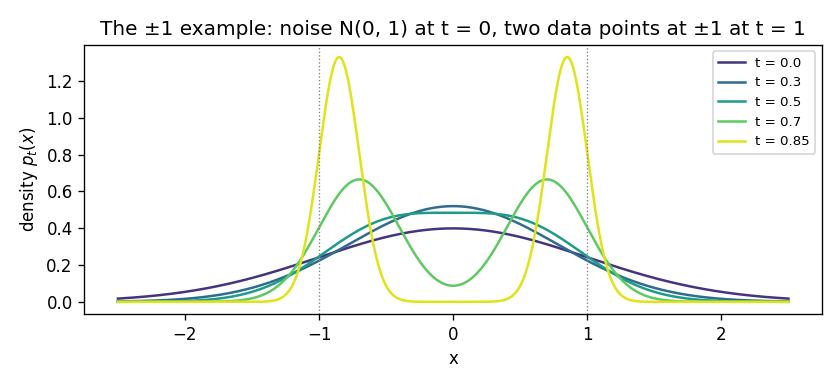
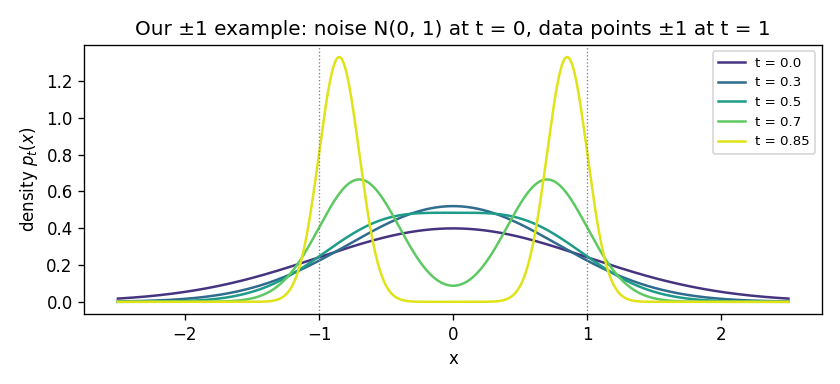
Flow matching pilot: fixes from the second independent review
Keep 'conditional path' (the line) apart from 'conditional probability
path' (the distribution), define the symbol in Exercise 1, stop
overloading sigma, state the reflow result Liu et al. prove, make the
1D OT split exact, use one figure for diffusion step counts, cite
Immiscible Diffusion for OT coupling in diffusion, clarify the
signal-to-noise matching, and move the naming note on 'optimal
transport' into its own section.

Changed region(s): [[0.1238, 0.0312, 0.9595, 0.0938]]

diff --git a/assignments/a06_0_flow_matching/assets/make_pm1_figures.py b/assignments/a06_0_flow_matching/assets/make_pm1_figures.py
@@ -50,7 +50,7 @@ for k in range(steps):
 ts = np.linspace(0.0, t_end, steps + 1)
 for i in range(n):
     ax_m.plot(ts, traj[:, i], color="tab:blue" if traj[-1, i] > 0 else "tab:orange", lw=1)
-ax_m.set_title("Marginal-field trajectories: curved, no crossings")
+ax_m.set_title("Marginal-velocity trajectories: curved, no crossings")
 ax_m.set_xlabel("t")
 
 for ax in (ax_c, ax_m):
@@ -73,7 +73,7 @@ for x1 in (-1, 1):
     ax.axvline(x1, color="gray", lw=0.8, ls=":")
 ax.set_xlabel("x")
 ax.set_ylabel("density $p_t(x)$")
-ax.set_title("The ±1 example: noise N(0, 1) at t = 0, two data points at ±1 at t = 1")
+ax.set_title("Our ±1 example: noise N(0, 1) at t = 0, data points ±1 at t = 1")
 ax.legend(fontsize=8)
 fig2.tight_layout()
 fig2.savefig("pm1_path.png", dpi=120)

diff --git a/assignments/a06_0_flow_matching/README.md b/assignments/a06_0_flow_matching/README.md
@@ -13,12 +13,13 @@ reverse a noising process one small step at a time. Flow matching trains the vel
 with a plain mean-squared-error loss against a target velocity that has a closed-form expression,
 and nothing has to be simulated during training. When the paths the model follows from noise to
 data are close to straight lines traveled at constant speed, a few large ODE steps are enough to
-generate a sample, where a diffusion sampler typically needs hundreds. Stable Diffusion 3 (SD3)
-and FLUX, the text-to-image systems released since mid-2024, are trained with this objective.
+generate a sample, where a diffusion sampler typically needs tens to hundreds. Stable Diffusion 3
+(SD3) and FLUX, two text-to-image systems released in 2024, are trained with this objective.
 
 Build conditional flow matching from scratch on 2D toy data, where the velocity field and the
 paths can be plotted in full. The pieces are the straight-line path between noise and data, the
-conditional flow matching loss, minibatch optimal-transport coupling (choosing which noise sample
+conditional flow matching loss, minibatch (the examples in one training step) optimal-transport
+coupling (choosing which noise sample
 goes with which data sample so that paths cross less), logit-normal sampling of training times (a
 distribution that favors the middle of the path), an Euler ODE sampler, a metric for how straight
 the generated paths are, and the conversion from a flow-matching velocity to the score (the
@@ -99,14 +100,13 @@ pictures are plausible, and the average points toward a vague mixture of them. A
 emerges, fewer pictures remain plausible, the average sharpens, and the steps head toward one
 specific picture.
 
-#### Why it matters
+#### Fewer sampling steps than diffusion
 
 Diffusion models also generate by turning noise into data in many small steps, and they produce
 excellent images, but sampling takes tens to hundreds of network evaluations per image. Flow
 matching keeps the same overall recipe with a simpler training target, and when the motion from
 noise to picture is close to a straight line traveled at constant speed, a handful of steps are
-enough. The number of steps is the main cost of generating a sample, so this matters in practice:
-SD3 and FLUX for images and pi0 (a robot control policy from Physical Intelligence) for robot
+enough. The number of steps is the main cost of generating a sample, which is why SD3 and FLUX for images and pi0 (a robot control policy from Physical Intelligence) for robot
 actions are trained with flow matching. Much of these notes is about why the motion is not exactly
 straight and what can be done about it.
 
@@ -132,7 +132,8 @@ Two words used throughout the notes can be seen here first. A quantity is **cond
 refers to one fixed data point $x_1$, and **marginal** when it is averaged over all data points. In
 our $\pm 1$ example, take all the noise samples paired with $x_1 = +1$ and move each along its
 straight line. At time $t$ they form a single Gaussian bump centered at $t$ with standard deviation
-$1 - t$: that is the conditional distribution of the interpolant given $x_1 = +1$. Do the same for
+$1 - t$: that is the conditional distribution of the interpolant given $x_1 = +1$, called the
+conditional probability path. Do the same for
 $x_1 = -1$ and pool both groups. The pooled distribution is an equal mixture of two bumps,
 centered at $-t$ and $+t$: that is the marginal distribution of the interpolant.
 
@@ -174,11 +175,13 @@ worked answer that can be expanded.
 
 ### Velocity fields, flows, and probability paths
 
-The word "path" is used in three senses in this literature, so the notes keep three terms apart. A
-**conditional path** is the straight line from one noise sample to its paired data point. A
+The word "path" is used in several senses in this literature, so the notes keep the terms apart.
+A **conditional path** is the straight line from one noise sample to its paired data point. A
 **trajectory** is the curve a point traces when it follows a velocity field, as the sampler does.
-A **probability path** is a sequence of distributions over time, not a curve at all; it is defined
-below.
+A **probability path** is a sequence of distributions over time, defined below. The **conditional
+probability path** is the distribution of the interpolant over all noise samples paired with one
+data point $x_1$ (the single bump in our $\pm 1$ example), and the marginal probability path is
+the same over all data points (the two-bump mixture).
 
 A time-dependent **velocity field** $v_t(x)$ assigns a vector in $\mathbb{R}^d$ to every point
 $x \in \mathbb{R}^d$ and every time $t$. A point that starts at $x$ moves according to the ODE
@@ -224,7 +227,7 @@ field that generates a probability path from the Gaussian to the data is enough 
 ### Why not train the field by maximum likelihood
 
 The standard way to fit a probabilistic model is to maximize the likelihood it assigns to the
-training data. Continuous normalizing flows, the predecessor of flow matching, were trained that
+training data. Continuous normalizing flows (defined below), the predecessor of flow matching, were trained that
 way, and they were slow to train. Flow matching was designed to remove the step that made them
 slow.
 
@@ -258,9 +261,9 @@ onto a target velocity that has a closed-form expression, with a mean-squared-er
 training step is: sample a time, sample a data point, sample an interpolant, evaluate the network
 once, and take a gradient step. No ODE solver is involved.
 
-### Notation
+### Notation summary
 
-In these notes $t=0$ is noise and $t=1$ is data. Diffusion papers, and the diffusion assignment,
+This section collects the symbols already introduced and used from here on. In these notes $t=0$ is noise and $t=1$ is data. Diffusion papers, and the diffusion assignment,
 use the opposite convention: $x_0$ is the clean image and time runs forward into noise. Both
 conventions are standard in their own literature, so the clash cannot be avoided. It matters in the
 score-velocity section near the end.
@@ -297,7 +300,7 @@ regresses the network onto the conditional velocity:
 $$\mathcal{L}_{\text{CFM}}(\theta) = \mathbb{E}_{t,\,x_1,\,x_t}\Big[\,\big\|v_\theta(x_t, t) - u_t(x_t \mid x_1)\big\|^2\,\Big].$$
 
 Every quantity in it can be sampled: draw $t$, draw a data point $x_1$, draw $x_t$ from the
-conditional path, and compute the target. The claim is that minimizing $\mathcal{L}_{\text{CFM}}$
+conditional probability path, and compute the target. The claim is that minimizing $\mathcal{L}_{\text{CFM}}$
 gives the same network as minimizing $\mathcal{L}_{\text{FM}}$. The proof has two steps.
 
 #### Step 1, least-squares regression returns the conditional mean
@@ -325,15 +328,17 @@ $\mathcal{L}_{\text{CFM}}$ is the average of their velocities:
 
 $$v_\theta(x, t) = \mathbb{E}\big[\,u_t(x_t \mid x_1) \;\big|\; x_t = x\,\big].$$
 
-If this average is the marginal velocity $u_t(x)$, then the two losses have targets with the same
-conditional mean, so by the fact above they differ by a constant that does not depend on $\theta$
-and have identical gradients. Step 2 shows that it is.
+Flow matching defines the marginal velocity $u_t(x)$ to be exactly this average. With that
+definition the two losses have targets with the same conditional mean, so by the fact above they
+differ by a constant that does not depend on $\theta$ and have identical gradients. The definition
+is only useful if this average actually moves the noise onto the data, and Step 2 shows that it
+does.
 
 #### Step 2, the average of the conditional velocities generates the marginal path
 
 The marginal density is a mixture of the conditional densities, one per data point:
 $p_t(x) = \int p_t(x \mid x_1)\,p(x_1)\,dx_1$. Differentiate in $t$ under the integral and use the
-continuity equation for each conditional path:
+continuity equation for each conditional probability path:
 
 $$\frac{\partial p_t(x)}{\partial t}
 = -\int \nabla \cdot \big(p_t(x \mid x_1)\,u_t(x \mid x_1)\big)\,p(x_1)\,dx_1
@@ -343,15 +348,15 @@ The divergence moves outside the integral because it differentiates in $x$ and t
 over $x_1$. The second form multiplies and divides by $p_t(x)$. By Bayes' rule, the weight
 $p_t(x \mid x_1)p(x_1)/p_t(x)$ is the posterior probability of data point $x_1$ given that the
 interpolant is at $x$ at time $t$, so the integral is the posterior average of the conditional
-velocities. Define the marginal velocity as that average:
+velocities, which is the marginal velocity as defined in Step 1:
 
 $$u_t(x) = \mathbb{E}\big[\,u_t(x_t \mid x_1) \;\big|\; x_t = x\,\big].$$
 
 The equation now reads $\partial p_t / \partial t = -\nabla \cdot (p_t u_t)$, the continuity
 equation for the marginal probability path. So the posterior average of the conditional velocities
-generates the marginal path. Of the many fields that generate that path, flow matching takes this
-one as the marginal velocity in $\mathcal{L}_{\text{FM}}$, and it is exactly what the regression in
-Step 1 converges to. Together the two steps show that $\mathcal{L}_{\text{CFM}}$ and
+generates the marginal path. Of the many fields that generate that path, this is the one flow
+matching uses in $\mathcal{L}_{\text{FM}}$, and it is exactly what the regression in Step 1
+converges to. Together the two steps show that $\mathcal{L}_{\text{CFM}}$ and
 $\mathcal{L}_{\text{FM}}$ have identical gradients. This is Theorem 1 of Lipman et al. (2022).
 
 ### The linear path
@@ -369,7 +374,7 @@ In our $\pm 1$ example, take $x_0 = 0.3$ paired with $x_1 = +1$. At $t = 0.5$ th
 $x_t = 0.5 \cdot 0.3 + 0.5 \cdot 1 = 0.65$ and the target velocity is $1 - 0.3 = 0.7$.
 
 Once $x_1$ is fixed, the only randomness left is $x_0$, a standard Gaussian, and $x_t$ is linear in
-it, so the conditional path is Gaussian at every time:
+it, so the conditional probability path is Gaussian at every time:
 
 $$x_t \mid x_1 \sim \mathcal{N}\big(t\,x_1,\ (1-t)^2 I\big).$$
 
@@ -389,9 +394,6 @@ $P(x_1 = +1 \mid x_t = 0.65) = 13.5/14.5 \approx 0.931$. The marginal velocity t
 average, $0.931 \cdot 0.7 + 0.069 \cdot (-3.3) \approx 0.42$, well below the $0.7$ that the pair
 toward $+1$ alone would ask for.
 
-The loss has no explicit weight over $t$. How much training effort each time gets depends only on
-the distribution $t$ is sampled from, the subject of a later section.
-
 > **Exercise 1 (the marginal velocity in closed form).** In our $\pm 1$ example, compute the
 > posterior $P(x_1 = +1 \mid x_t = x)$ for general $x$ and $t$, then the marginal velocity $u_t(x)$
 > as a closed-form function of $x$ and $t$. Evaluate it at $t = 0.5$, $x = 0.25$.
@@ -402,8 +404,8 @@ the distribution $t$ is sampled from, the subject of a later section.
 The two conditional densities are Gaussians with the same standard deviation $1-t$ and means
 $\pm t$. Their ratio is
 $\exp\big(\frac{(x + t)^2 - (x - t)^2}{2(1-t)^2}\big) = \exp\big(\frac{2tx}{(1-t)^2}\big)$, so
-$P(x_1 = +1 \mid x) = \sigma\big(2tx/(1-t)^2\big)$, where $\sigma$ is the sigmoid. The posterior
-mean of $x_1$ is $2\sigma(a) - 1 = \tanh(a/2) = \tanh\big(tx/(1-t)^2\big)$. The conditional velocity
+$P(x_1 = +1 \mid x) = \sigma(\alpha)$ with $\alpha = 2tx/(1-t)^2$, where $\sigma$ is the sigmoid.
+The posterior mean of $x_1$ is $2\sigma(\alpha) - 1 = \tanh(\alpha/2) = \tanh\big(tx/(1-t)^2\big)$. The conditional velocity
 $(x_1 - x)/(1-t)$ is linear in $x_1$, so its posterior average is
 
 $$u_t(x) = \frac{\tanh\big(tx/(1-t)^2\big) - x}{1-t}.$$
@@ -469,15 +471,14 @@ Euler's error comes from the velocity changing during a step. Expanding the true
 Taylor series about the current time, Euler keeps $\dot{x}\,\Delta t$ and drops the rest, of which
 the largest term is $\tfrac12 \ddot{x}\,\Delta t^2$, set by the acceleration along the trajectory.
 If the velocity along a trajectory is constant, the acceleration and every higher derivative are
-zero, and Euler lands exactly on the endpoint with any number of steps, including one. This is an
-exact statement, not a limit as $\Delta t \to 0$.
+zero, and Euler lands exactly on the endpoint with any number of steps, including one. This holds
+exactly for any step size.
 
 So the number of sampling steps needed depends on how much the velocity changes along the
 trajectories. A trajectory that is a straight line traveled at constant speed needs a single step.
 The curved trajectories in the figure above need enough steps to follow the bend. Making the
-trajectories straighter therefore reduces the number of network evaluations at sampling time. A
-diffusion sampler may need hundreds of network evaluations for a given quality, where a flow with
-nearly straight trajectories needs a few.
+trajectories straighter therefore reduces the number of network evaluations at sampling time,
+which is the advantage over diffusion described at the start of the notes.
 
 ### Measuring straightness
 
@@ -551,7 +552,8 @@ weights, optimal transport between two point sets is a matching problem.
 
 Trying every permutation would take $B!$ evaluations. This matching problem is the **assignment
 problem**, and it has exact polynomial-time algorithms. The Hungarian algorithm (Kuhn 1955, Naval
-Research Logistics Quarterly) solves it in $O(B^3)$ time and returns the exact optimum. It works by
+Research Logistics Quarterly) returns the exact optimum; later refinements of it run in $O(B^3)$
+time. It works by
 repeatedly adjusting an offset for each row and each column of the cost matrix until there are
 enough zero-cost entries to form a complete matching. SciPy has an exact solver for it.
 
@@ -570,9 +572,9 @@ $(2, 3.5, 0.5) \to 16.5$, $(0.5, 2, 3.5) \to 1.5$, $(0.5, 3.5, 2) \to 7.5$,
 $(3.5, 2, 0.5) \to 19.5$, $(3.5, 0.5, 2) \to 13.5$. The optimum is $(0.5, 2, 3.5)$ with cost
 $1.5$, down from $4.5$. It pairs the sorted noise with the sorted data. In 1D with squared-distance
 cost the optimal coupling is always the sorted one, so the conditional paths never cross. In our
-$\pm 1$ example, OT coupling within a batch splits the noise samples at their median: those below
-it go to $-1$ and those above it to $+1$. For a large batch the median is close to $0$, which is
-the split the curved trajectories in the figure produce.
+$\pm 1$ example, if a batch contains $n$ copies of $-1$, OT coupling sends the $n$ smallest noise
+samples to $-1$ and the rest to $+1$. For a large batch with about equal numbers of each, the split
+falls close to $0$, which is the split the curved trajectories in the figure produce.
 
 </details>
 
@@ -596,6 +598,8 @@ bias and show it shrinks as the minibatch grows. And building the cost matrix co
 solving the assignment costs $O(B^3)$, which is negligible at $B = 256$ in two dimensions and
 significant for images.
 
+### Two meanings of "optimal transport"
+
 Two different things in this literature are called "optimal transport". Lipman et al. call the
 linear path the "optimal transport" conditional path, because for a fixed $x_1$ the straight-line
 map is the optimal transport map between the two endpoint conditional distributions: the standard
@@ -616,9 +620,10 @@ procedure gives the 3-rectified flow, and so on.
 
 The ODE is deterministic, so each $x_0$ has exactly one endpoint, and the new coupling is the one
 the first model's trajectories produced. Liu et al. prove that this coupling has a transport cost no
-higher than the coupling it came from, for every convex cost function at once. By the argument of
-our crossed-pairs case, a lower-cost coupling has fewer crossing conditional paths, so the second
-model has less to average and its trajectories are straighter.
+higher than the coupling it came from, for every convex cost function at once, and that repeated
+reflow drives the straightness $S$ toward zero. The second model's conditional paths are lines
+between points the first model's non-crossing trajectories connected, so they cross less than
+independent pairs, and the second model has less to average.
 
 In one dimension the improvement is complete. Trajectories of one field preserve order, so in our
 $\pm 1$ example reflow pairs each negative noise sample with $-1$ and each positive one with $+1$.
@@ -694,17 +699,18 @@ into a diffusion score.
 The **score** of a density is the gradient of its logarithm, $\nabla_x \log p_t(x)$. It points in
 the direction in which the density increases fastest, and like the velocity it is a vector field
 over points and times. It is what a diffusion model learns. A noise-prediction network learns it in
-rescaled form: for a noised sample $x_t = a\,x_{\text{data}} + \sigma\,\varepsilon$ with
-$\varepsilon \sim \mathcal{N}(0, I)$, the conditional score is $-\varepsilon/\sigma$, so predicting
-the noise is predicting the score up to a factor of $-\sigma$.
+rescaled form: in the diffusion assignment's notation a noised sample is
+$x_t = a_t\,x_{\text{data}} + b_t\,\varepsilon$ with $\varepsilon \sim \mathcal{N}(0, I)$, its
+conditional score is $-\varepsilon/b_t$, and so predicting the noise is predicting the score up to
+a factor of $-b_t$.
 
 The result of this section: on the linear path, the score at a point is an affine function of the
 velocity at that point, with coefficients that depend only on $x_t$ and $t$.
 
-Start with one conditional path, where everything is Gaussian. From the linear-path section,
-$x_t \mid x_1 \sim \mathcal{N}(t x_1, (1-t)^2 I)$. The log-density of a Gaussian with mean $\mu$
-and variance $\sigma^2$ is $-\lVert x - \mu \rVert^2 / (2\sigma^2)$ plus a constant, so its gradient
-is $-(x - \mu)/\sigma^2$:
+Start with one conditional probability path, where everything is Gaussian. From the linear-path section,
+$x_t \mid x_1 \sim \mathcal{N}(t x_1, (1-t)^2 I)$. The log-density of a Gaussian is minus the
+squared distance to the mean divided by twice the variance, plus a constant, so its gradient is
+$-(x - \text{mean})/\text{variance}$:
 
 $$\nabla_{x_t}\log p_t(x_t \mid x_1) = -\frac{x_t - t\,x_1}{(1-t)^2}.$$
 
@@ -732,7 +738,7 @@ can be computed from its output:
 
 $$\text{score}(x_t, t) = \frac{t\,v - x_t}{1-t}.$$
 
-The denominator is zero at $t=1$, where each conditional path has shrunk to the single point $x_1$
+The denominator is zero at $t=1$, where each conditional probability path has shrunk to the single point $x_1$
 and the density has no gradient. The relation is used only for $t < 1$.
 
 > **Exercise 5 (score and velocity at the same point).** In our $\pm 1$ example at $t = 0.5$,
@@ -765,16 +771,18 @@ into the other.
 Both frameworks build a Gaussian path between data and noise of the form
 $x_t = a_t\,x_{\text{data}} + b_t\,x_{\text{noise}}$, with scalar schedules $a_t$ and $b_t$.
 
-Diffusion with the standard **variance-preserving** schedule uses $a_t^2 + b_t^2 = 1$. For data with
+Diffusion with the standard **variance-preserving** schedule, as in the diffusion assignment, uses
+$a_t^2 + b_t^2 = 1$. For data with
 unit variance this keeps the variance of $x_t$ at 1 for every $t$, hence the name, so the network
-sees inputs of the same scale at every noise level. The cosine schedule is one such choice. The
+sees inputs of the same scale at every noise level (the amount of noise in $x_t$, set by $t$). The cosine schedule is one such choice. The
 linear path uses $a_t = t$ and $b_t = 1-t$, and $t^2 + (1-t)^2$ is not 1: it drops to $0.5$ at
 $t = 0.5$. So the linear path is not variance-preserving.
 
 The difference is a rescaling. Dividing a point on the linear path by $\sqrt{t^2 + (1-t)^2}$ puts
-it on a variance-preserving path. The two paths pass through the same signal-to-noise ratios
-$a^2/b^2$ at different times, and matched by signal-to-noise ratio they describe the same family of
-distributions up to a scalar at each time.
+it on a variance-preserving path with the same signal-to-noise ratio $a_t^2/b_t^2$ at every $t$.
+Any two such paths, for example the rescaled linear path and the cosine schedule, then differ only
+in which $t$ reaches a given signal-to-noise ratio. Matching times by signal-to-noise ratio, they
+describe the same family of distributions up to a scalar at each time.
 
 The prediction targets correspond in the same way. Diffusion models can be trained to predict the
 noise, the clean sample, or a combination of the two called $v$-prediction (Salimans & Ho 2022,
@@ -793,8 +801,11 @@ Three differences remain.
 1. The effective weighting across noise levels differs, because of that time-dependent factor.
    Flow matching with logit-normal timesteps and diffusion with a cosine schedule optimize the same
    family of objectives but are not the same training run.
-2. OT coupling has no diffusion counterpart. Diffusion's forward process adds independent Gaussian
-   noise to each data point, so the coupling is always independent.
+2. Coupling is built into flow matching but not into standard diffusion. Diffusion's forward
+   process adds independent Gaussian noise to each data point, so its coupling is independent by
+   construction. Immiscible Diffusion (Li et al. 2024,
+   [arXiv:2406.12303](https://arxiv.org/abs/2406.12303)) later added minibatch noise assignment to
+   diffusion training, borrowing the same idea.
 3. Flow matching does not need one endpoint to be noise. Any two distributions that can be sampled
    will do, because the conditional path interpolates between a sample from each rather than
    running a noising process. This lets rectified flow map one data distribution directly onto
@@ -805,7 +816,7 @@ Three differences remain.
 
 ### Later developments
 
-As of 2025, newer methods outperform reflow for few-step generation. MeanFlow (Geng et al. 2025,
+Methods published in 2024 and 2025 outperform reflow for few-step generation. MeanFlow (Geng et al. 2025,
 [arXiv:2505.13447](https://arxiv.org/abs/2505.13447)) trains the network to predict the average
 velocity over a time interval instead of the velocity at one instant, so one network evaluation
 covers a whole interval; this allows one-step generation from a single training run without a
@@ -905,7 +916,7 @@ What you should see when you run this. The overfit test reduces the CFM loss by 
 of magnitude from its untrained value (about 900x, from 17.2 to 0.019 in the provided CPU run). It
 stops improving there because some distinct pairs land at nearly the same $(x_t, t)$ with different
 target velocities, and a finite MLP cannot match both. For that reason the test checks a relative
-drop and a loose absolute bound rather than an exact number. The constant-velocity oracle
+drop and a loose absolute bound rather than an exact number. The constant-velocity Euler test
 reconstructs $x_1$ to within $10^{-6}$ even with one Euler step. In the figures, OT coupling and one
 reflow step give visibly straighter trajectories and a lower straightness number than independent
 coupling, and the OT model produces recognizable samples with 2 to 4 Euler steps. These are 2D toy
@@ -937,6 +948,7 @@ in the feature space of a pretrained network.
 - Albergo, Boffi & Vanden-Eijnden 2023, Stochastic Interpolants,
   [arXiv:2303.08797](https://arxiv.org/abs/2303.08797).
 - Geng et al. 2025, MeanFlow, [arXiv:2505.13447](https://arxiv.org/abs/2505.13447).
+- Li et al. 2024, Immiscible Diffusion, [arXiv:2406.12303](https://arxiv.org/abs/2406.12303).
 - Wang et al. 2024, Rectified Diffusion, [arXiv:2410.07303](https://arxiv.org/abs/2410.07303).
 - Yang et al. 2024, Consistency Flow Matching,
   [arXiv:2407.02398](https://arxiv.org/abs/2407.02398).
